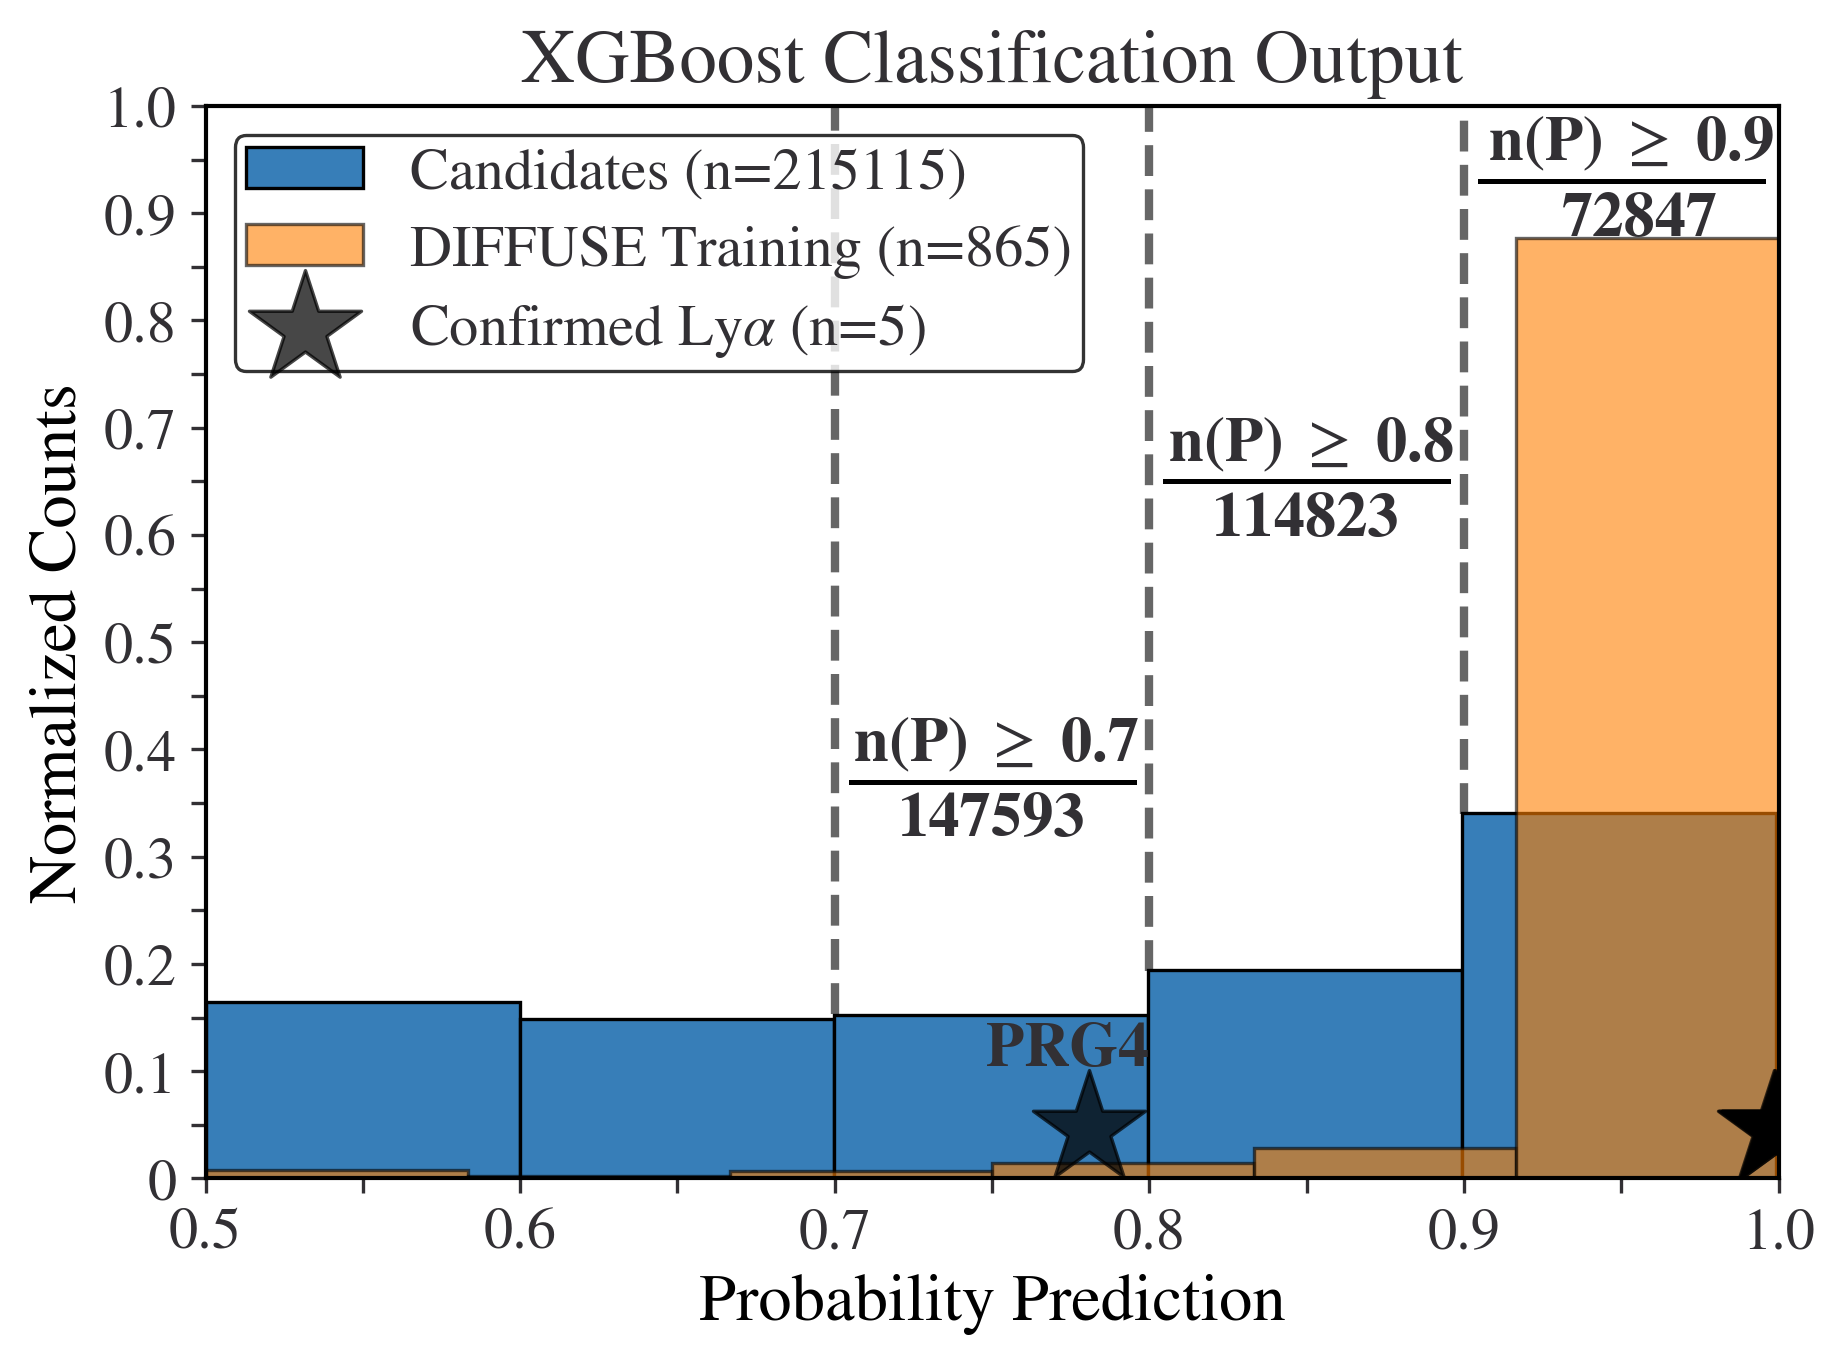
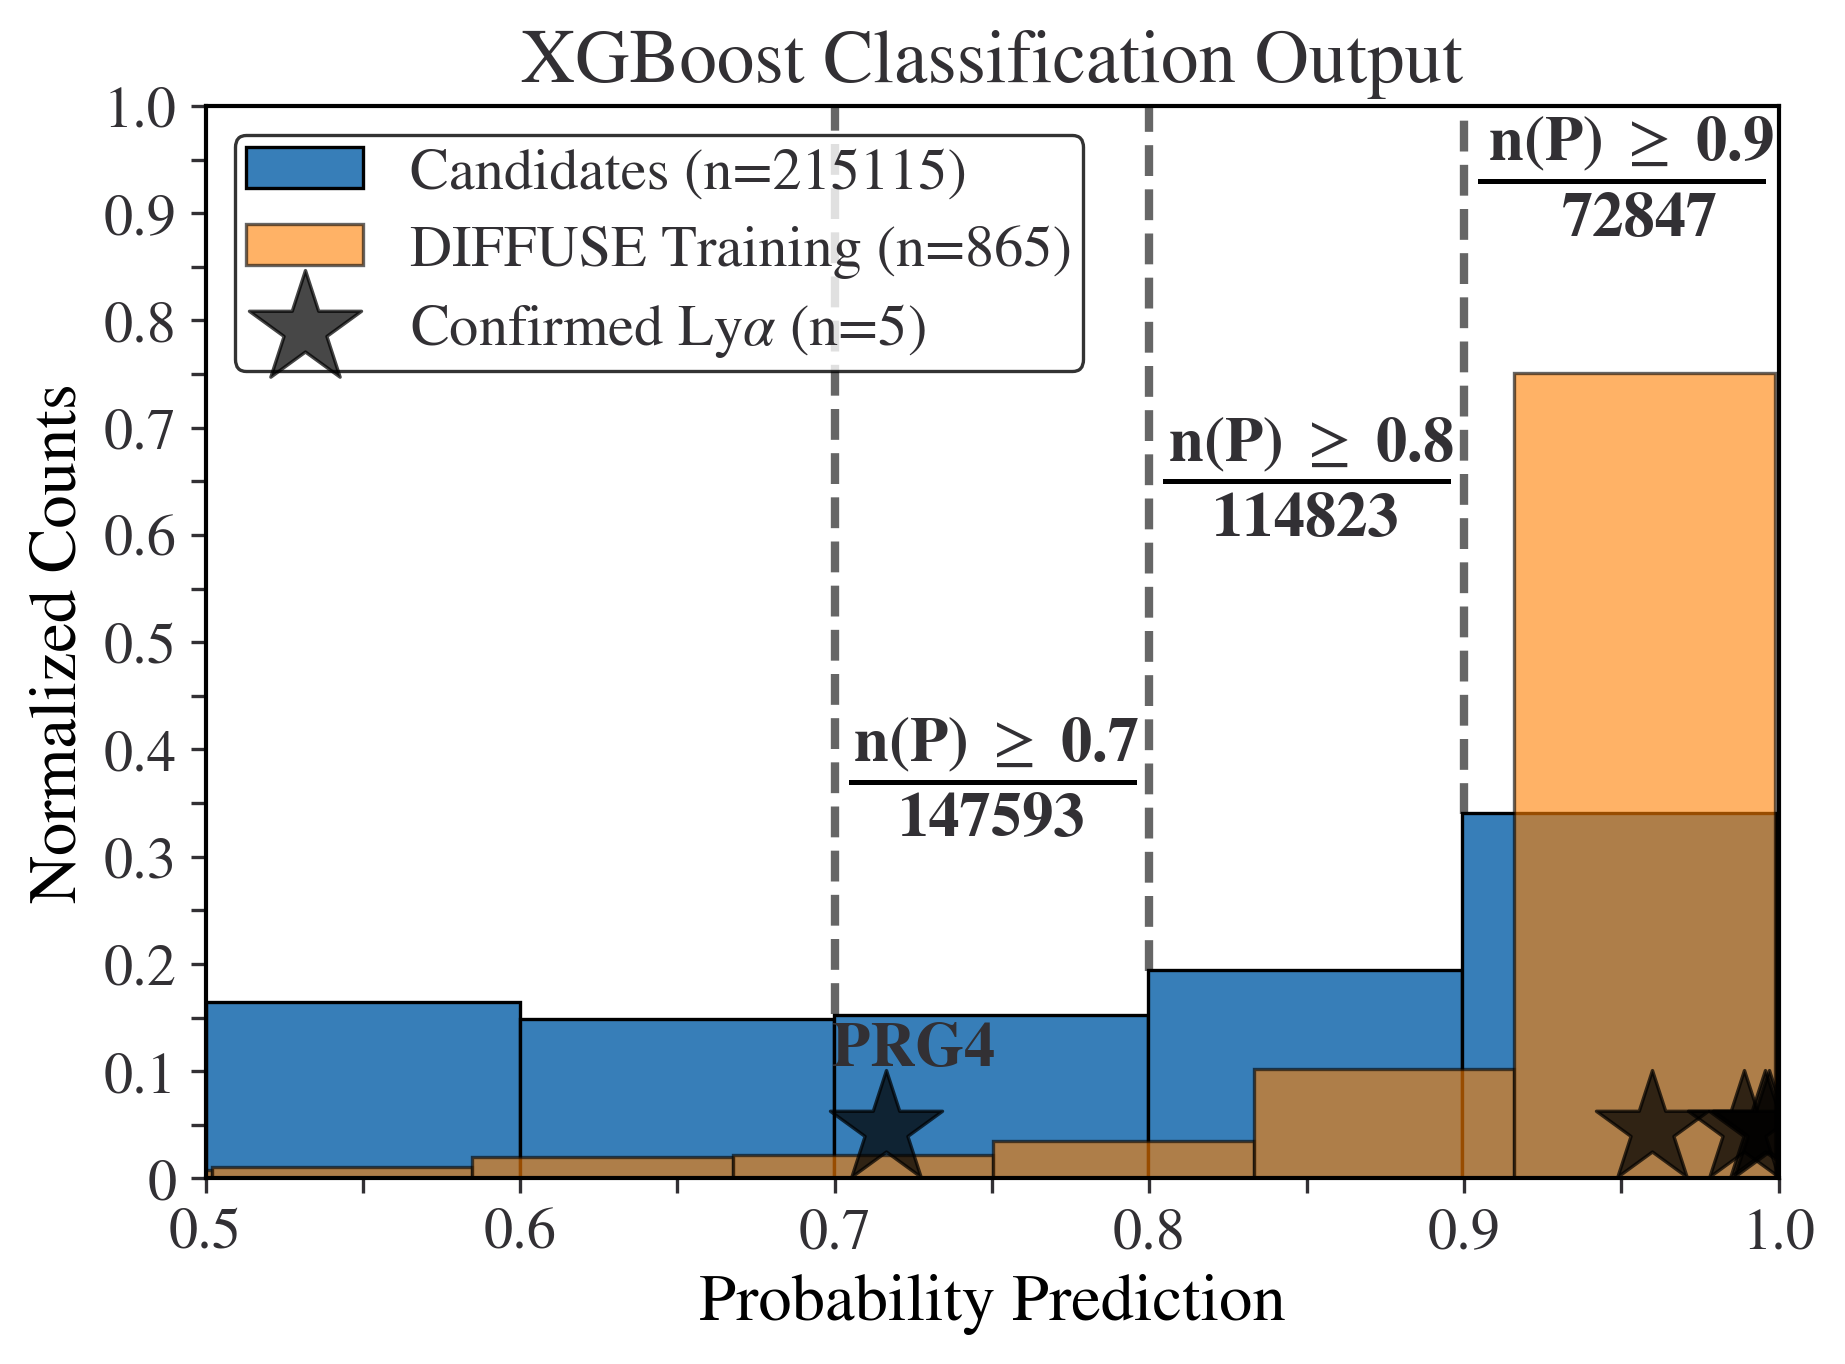
updated code

Changed region(s): [[0.1236, 0.739, 0.8341, 0.8622], [0.8033, 0.154, 0.9886, 0.585], [0.865, 0.7698, 0.9577, 0.8622]]

diff --git a/docs/source/Figures.rst b/docs/source/Figures.rst
@@ -7,7 +7,7 @@ Figures
 Figure 1
 -----------
 
-The multi-band data for our five confirmed lyman-alpha nebulae can be :download:`downloaded here. <confirmed_diffuse.npy>`
+The multi-band data for our five confirmed lyman-alpha nebulae can be :download:`download here. <confirmed_diffuse.npy>`
 
 To visualize the affect the sigma detection threshold has on the image segmentation object, we used the `plot_three_segm <https://pybia.readthedocs.io/en/latest/autoapi/pyBIA/catalog/index.html#pyBIA.catalog.plot_three_segm>`_ function available in the pyBIA.catalog module.
 
@@ -33,7 +33,7 @@ Figure 2
 
 To download the images used in this study please visit the `NoirLab <https://noirlab.edu/science/data-services/other/ndwfs>`_ website. We utilized the Bootes field data, from which there are 27 total subfields to download, in addition to the corresponding error maps. The data avaialable are in .fits format.
 
-The training set objects used in our study can be :download:`downloaded here <training_set_objects.csv>`. This dataframe contains catalog information on the 866 DIFFUSE candidates compiled by Prescott et al 2012, as well as 3200 randomly selected OTHER sources from the same dataset. 
+The training set objects used in our study can be :download:`download here <training_set_objects.csv>`. This dataframe contains catalog information on the 866 DIFFUSE candidates compiled by Prescott et al 2012, as well as 3200 randomly selected OTHER sources from the same dataset. 
 
 The code below demonstrates how we conducted our detection threshold analysis. Using the catalog information available in the provided training set, we extracted the morphological features using image segmentation at different thresholds between 0.1 to 1.5 rms of the noise.  
 
@@ -123,12 +123,12 @@ These files will be used to create base RF and XGBoost models, one per file:
 	np.savetxt('nsig_scores_Bw', score_data, header="nsigs, RF_scores, XGB_scores")
 	np.savetxt('non_detections_Bw', non_detect_data, header="nsigs, blob_non_detections, other_non_detections")
 
-These two files can be downloaded: 
+The two files generated above can be downloaded: 
 
 - :download:`nsig_scores_Bw <nsig_scores_Bw>`
 - :download:`non_detections_Bw <non_detections_Bw>`
 
-We can now generate the plots:
+We can now create the plots:
 
 .. code-block:: python
 
@@ -239,9 +239,9 @@ Given the analysis from Figure 2, we now proceed with the generated training set
     :class: with-shadow with-border
     :width: 600px
 |
-This optimized tree-based ensemble model can be :download:`downloaded here <Optimal_XGB_Model.zip>`.
+This optimized tree-based ensemble model can be :download:`download here <Optimal_XGB_Model.zip>`.
 
-We can now generate Figure 3 using the built-in class methods, for the t-SNE projection we will need the catalog names for the five confirmed blobs in our sample, available for :download:`downloaded here <obj_name_5>`.
+We can now generate Figure 3 using the built-in class methods, for the t-SNE projection we will need the catalog names for the five confirmed blobs in our sample, available for :download:`download here <obj_name_5>`.
 
 .. code-block:: python
 
@@ -358,7 +358,7 @@ Using this file we can now construct a catalog for the entire dataset so as to p
 	frame = pd.concat(frame, axis=0, join='inner')
 	frame.to_csv('Other_Catalog_Master_'+str(sig), chunksize=1000)                              
 
-This final catalog as genereated above is available for download `here <https://drive.google.com/file/d/16kJ5jyVImp7E8oEEjjUrj4l9vH2JSkCa/view?usp=sharing>`_:
+This final catalog as genereated above is available for download `here <https://drive.google.com/file/d/16kJ5jyVImp7E8oEEjjUrj4l9vH2JSkCa/view?usp=sharing>`_.
 
 Using this catalog, we can now re-load the optimal model to conduct the predictions. As per the analysis conducted for this Figure, the predictions will be made using both the base and optimal model so as to compare the distribution of probability predictions. 
 
@@ -564,10 +564,10 @@ As stated above, the OTHER objects in our training set were omitted from the can
 
 These two candidate catalogs are available for download:
 
-- `candidate_catalog_base_xgb <https://drive.google.com/file/d/13r0Qq7r4stemAtffEiEX8w-kQI_RjOKY/view?usp=sharing>`_
-- `candidate_catalog_optimized_xgb <https://drive.google.com/file/d/1IYbSql6xiTB-hGaM_bLp_ygCIKSyfOb_/view?usp=sharing>`_
+- `candidate_catalog_base_xgb <https://drive.google.com/file/d/1IYbSql6xiTB-hGaM_bLp_ygCIKSyfOb_/view?usp=sharing>`_
+- `candidate_catalog_optimized_xgb <https://drive.google.com/file/d/13r0Qq7r4stemAtffEiEX8w-kQI_RjOKY/view?usp=sharing>`_
 
-We can now perform a probability prediction analysis, first with the baseline more (all features, not hyperparameter optimization):
+We can now perform a probability prediction analysis, first with the baseline model (all features, not hyperparameter optimization):
 
 .. code-block:: python
 
@@ -591,6 +591,7 @@ We can now perform a probability prediction analysis, first with the baseline mo
 	confirmed_diffuse_probas = np.loadtxt('LoO_Confirmed_DIFFUSE_xgb', dtype=str)
 	all_diffuse_probas = np.loadtxt('LoO_DIFFUSE_xgb', dtype=str)
 
+	# The second column is the XGBoost baseline probas
 	five_diffuse_base_probas = confirmed_diffuse_probas[:,1].astype('float')
 	all_diffuse_base_probas = all_diffuse_probas[:,1].astype('float')
 
@@ -651,6 +652,8 @@ We can now perform a probability prediction analysis, first with the baseline mo
     :width: 600px
 |
 
+Now we compare with the optimized model:
+
 .. code-block:: python
 
 	# Figure 5 Right Panel Histogram -- Optimized Model #
@@ -662,6 +665,7 @@ We can now perform a probability prediction analysis, first with the baseline mo
 	candidate_catalog_optimized = pd.read_csv('candidate_catalog_optimized_xgb.csv')
 	probas_candidates = np.array(candidate_catalog_optimized.proba)
 
+	# The third column is the XGBoost optimized probas
 	five_diffuse_optimized_probas = confirmed_diffuse_probas[:,2].astype('float')
 	all_diffuse_optimized_probas = all_diffuse_probas[:,2].astype('float')
 
@@ -670,8 +674,8 @@ We can now perform a probability prediction analysis, first with the baseline mo
 
 	# Plot
 	plt.hist(probas_candidates, bins=5, weights=np.ones(len(probas_candidates)) / len(probas_candidates), color='#377eb8', label='Candidates (n='+str(len(probas_candidates))+')')
-	plt.hist(all_diffuse_base_probas, bins=12, weights=np.ones(len(all_diffuse_base_probas)) / len(all_diffuse_base_probas), color='#ff7f00', alpha=0.6, label='DIFFUSE Training (n=865)')
-	plt.scatter(five_diffuse_base_probas, [0.0458]*len(five_diffuse_base_probas), marker='*', c='k', s=800, alpha=0.72, label=r'Confirmed Ly$\alpha$ (n=5)')
+	plt.hist(all_diffuse_optimized_probas, bins=12, weights=np.ones(len(all_diffuse_base_probas)) / len(all_diffuse_base_probas), color='#ff7f00', alpha=0.6, label='DIFFUSE Training (n=865)')
+	plt.scatter(five_diffuse_optimized_probas, [0.0458]*len(five_diffuse_base_probas), marker='*', c='k', s=800, alpha=0.72, label=r'Confirmed Ly$\alpha$ (n=5)')
 
 	y=0.12 # Controls the position of the text
 
@@ -699,8 +703,7 @@ We can now perform a probability prediction analysis, first with the baseline mo
 	plt.axhline(y=0.81+y, linestyle='-', linewidth=1.2, color='k', xmin=0.81, xmax=0.99)
 	plt.text(0.931, 0.76+y, s=str(len(index_90)), weight="bold")
 
-	# Highlighting the lowest performing confirmed blob, PRG4
-	plt.text(0.7481, 0.1055, s="PRG4", weight="bold")
+	plt.text(0.6992, 0.1055, s="PRG4", weight="bold")
 
 	plt.title('XGBoost Classification Output', size=18); plt.xlabel('Probability Prediction', size=16); plt.ylabel('Normalized Counts', size=16)
 	plt.xticks(ticks=[0.4,0.45,0.5,0.55,0.6,0.65,0.7,0.75,0.8,0.85,0.9,0.95,1.], 
@@ -708,6 +711,7 @@ We can now perform a probability prediction analysis, first with the baseline mo
 	plt.yticks(ticks=[0,0.05,0.1,0.15,0.2,0.25,0.3,0.35,0.4,0.45,0.5,0.55,0.6,0.65,0.7,0.75,0.8,0.85,0.9,0.95,1.0], size=14, 
 		labels=['0','','0.1','','0.2','','0.3','','0.4','','0.5','','0.6','','0.7','','0.8','','0.9','','1.0'])
 	plt.xlim((0.5,1.0)); plt.legend(prop={'size': 14}, loc='upper left')
+	plt.savefig('/Users/daniel/Desktop/Final_Histogram_Optimized.png', bbox_inches='tight', dpi=300)
 	plt.show()
 
 .. figure:: _static/Ensemble_Confusion_Matrix_Optimized.png
@@ -745,10 +749,10 @@ Figure 6
 	r_images_path = '/Users/daniel/Desktop/saved_images/OTHER/R/'
 
 	# Load the candidate catalog according to the optimized model 
-	cat = pd.read_csv('/Users/daniel/Desktop/candidate_catalog_optimized_xgb.csv')
+	cat = pd.read_csv('candidate_catalog_optimized_xgb.csv')
 
-	# Select only the candidates with probability predictions greater than or equal to 85%
-	index = np.where(cat.proba >= 0.85)[0]
+	# Select only the candidates with probability predictions greater than or equal to 70%
+	index = np.where(cat.proba >= 0.70)[0]
 	sample = cat.iloc[index]
 
 	# Saving images as 120x120 pix
@@ -792,7 +796,7 @@ Figure 6
 	np.save('/Users/daniel/Desktop/saved_images/xgb_output_images.npy', np.array(images))
 	np.savetxt('/Users/daniel/Desktop/saved_images/xgb_output_images_names.txt', obj_names, fmt='%s')
 
-The images as generated above as a binary file are available `here <https://drive.google.com/file/d/1D6TFRlyTWF4lUXJKiZWAcBqOY9qUw11e/view?usp=drive_link>`_. The object names in corresponding order can be :download:`downloaded here. <xgb_output_images_names.txt>`
+The images as generated above as a binary file are available `here <https://drive.google.com/file/d/1D6TFRlyTWF4lUXJKiZWAcBqOY9qUw11e/view?usp=drive_link>`_. The object names in corresponding order can be :download:`download here. <xgb_output_images_names.txt>`
 
 .. code-block:: python
 
@@ -822,6 +826,12 @@ The images as generated above as a binary file are available `here <https://driv
 
 	# Will also save the five confirmed blobs
 	obj_names_5 = np.loadtxt('/Users/daniel/Desktop/Folders/pyBIA/pyBIA/data/obj_name_5', dtype=str)
+
+	# Saving images as 120x120 pix
+	image_size = 120 
+
+	# Setting the apertures for the background subtraction, approximated using the sigma-clipped median within annuli of 20 and 35 pixel radii
+	annulus_apertures = CircularAnnulus((int(image_size/2),int(image_size/2)), r_in=20, r_out=35)
 
 	for field_name in np.unique(sample['field_name']):
 		# Load the B and R broadband data
